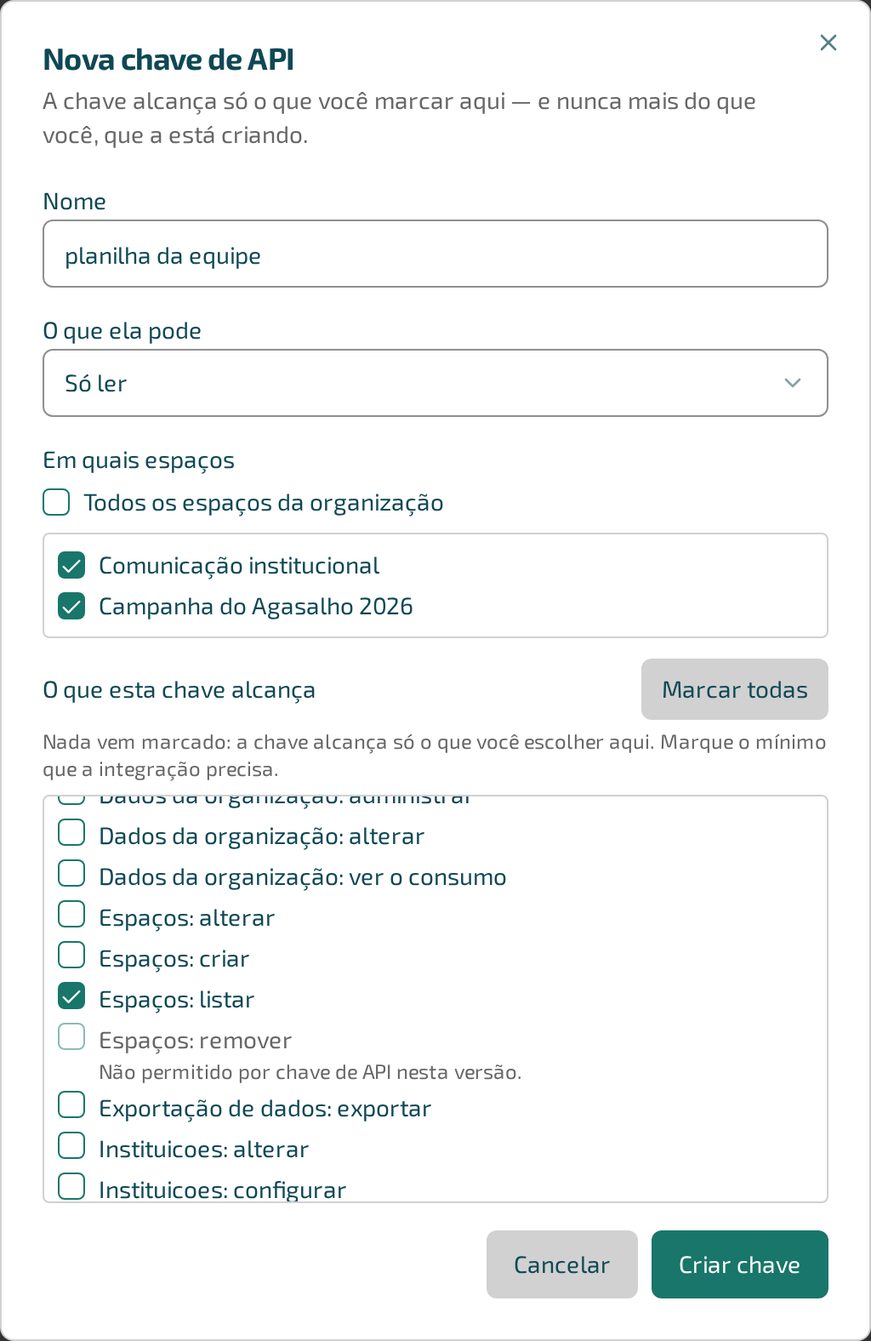
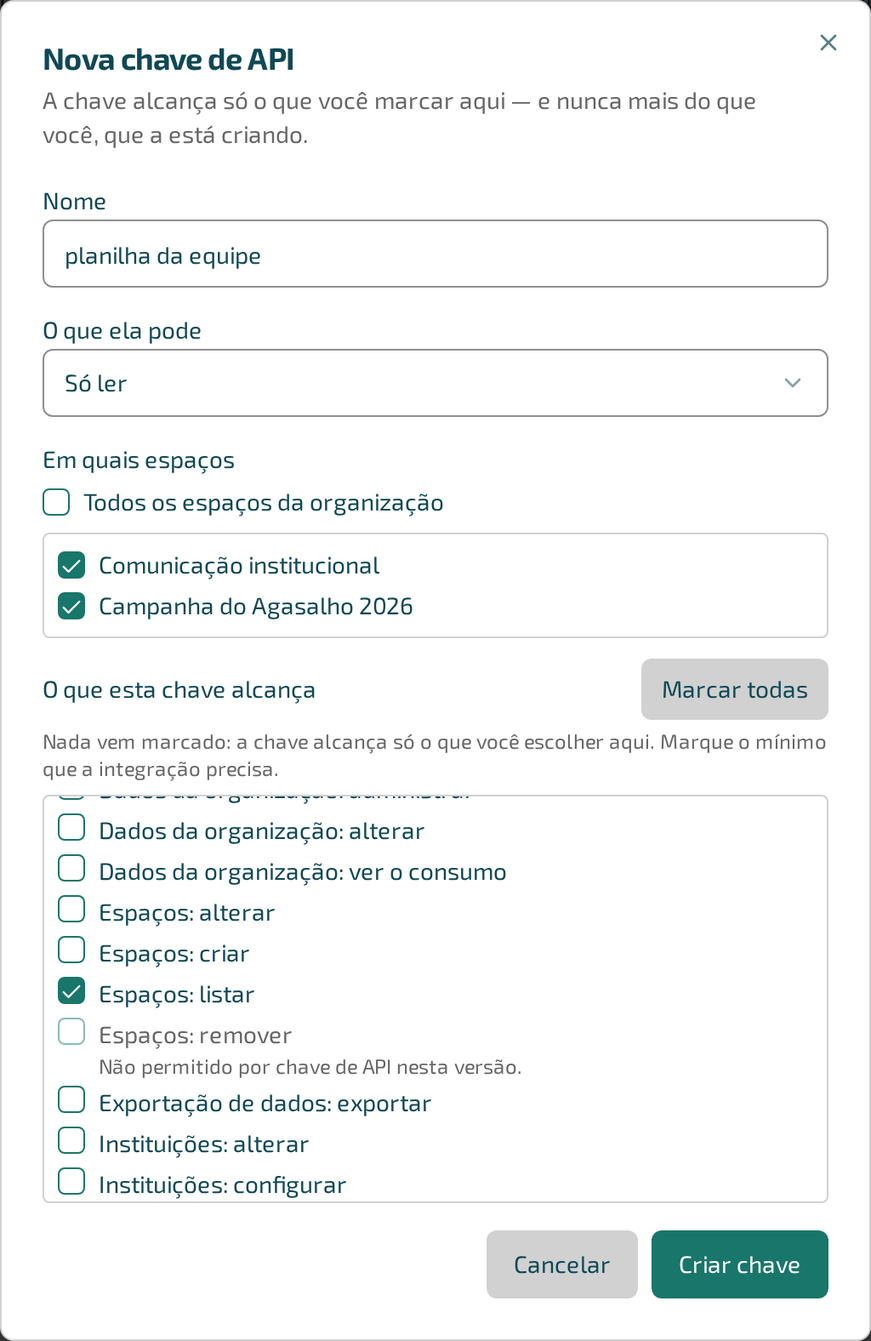
docs: retenção de convites de assinatura, e os estados novos do cenário (#297, #303, #306)

Changed region(s): [[0.0625, 0.5907, 0.5938, 0.9016]]

diff --git a/admin-servico/retencao-convites.md b/admin-servico/retencao-convites.md
@@ -1,0 +1,161 @@
+---
+title: "Retenção de convites de assinatura"
+nav_order: 17
+parent: "Administração do serviço"
+permalink: /admin-servico/retencao-convites/
+palavras_chave: "retenção, convite de assinatura, convite nunca atendido, e-mail removido, assinante externo, dado pessoal, LGPD, rotina de retenção, processo de fundo, documento assinado, convite encerrado"
+---
+
+# Retenção de convites de assinatura
+
+Tela da **Administração do serviço** que define **por quanto tempo o Flow guarda o e-mail de quem foi
+chamado a assinar um documento e não assinou** — e mostra se a rotina que remove esse e-mail está de
+fato rodando. Para chegar: escudo no cabeçalho, depois **"Manutenção"** e o botão **"Retenção de
+convites de assinatura"**, ao lado de "Retenção de candidaturas".
+
+![Tela Manutenção da administração do serviço, com os botões "Retenção de candidaturas", "Retenção de convites de assinatura" e "Apagamento de organização encerrada" no cartão "Mais manutenção"](/assets/capturas/admin-servico-manutencao-desktop.png)
+{: .mt-4 }
+
+No celular:
+
+![Tela Manutenção no celular, com o botão "Retenção de convites de assinatura" entre os botões de manutenção](/assets/capturas/admin-servico-manutencao-celular.png){: style="max-width:375px" }
+{: .mt-4 }
+
+## Por que isto importa
+
+Quando a organização envia um documento para assinatura, cada parte recebe um **convite** com um link
+próprio. Quem recebe, muitas vezes, **não tem conta e não tem nenhuma relação com a organização**: é
+um fornecedor, um voluntário em potencial, o representante de outra entidade. Se essa pessoa nunca
+assina, o e-mail dela ficaria guardado **para sempre** — e ela não tem como pedir que saia, porque não
+sabe nem onde pedir.
+
+O prazo é o que faz esse e-mail sair **sozinho**. Passados **90 dias** da criação do convite (o padrão),
+o convite que ninguém atendeu perde o e-mail e o link. O link de assinatura vale 30 dias; 90 dão ao
+convite **duas validades inteiras** para a organização cobrar a parte e reenviar. Quem não assinou em
+três meses dificilmente vai assinar por aquele convite.
+
+## O que acontece com cada convite
+
+| Situação | O que o sistema faz |
+|---|---|
+| **Convite nunca atendido, com mais de 90 dias** (prazo padrão), de um documento **sem nenhuma assinatura** | Remove o **e-mail**, o **link** e as **mensagens de erro de envio** (que costumam citar o endereço). Fica um registro mínimo: que houve convite, para qual parte e quando. |
+| **Documento com pelo menos uma assinatura** | **Nunca é tocado.** Nenhum convite dele — nem o de quem assinou, nem o das outras partes. |
+| **Convite com link recém-enviado e ainda dentro da validade** | Fica de fora: não se corta um link que acabou de ser entregue e ainda funciona. |
+
+{: .important }
+**Documento assinado nunca é alcançado.** O acordo assinado é documento jurídico e permanece inteiro.
+Basta **um** aceite para proteger **todos** os convites daquele documento: o de quem assinou e os das
+outras partes, mesmo que alguma delas nunca tenha respondido. O prazo só alcança o documento em que
+**ninguém** assinou.
+
+{: .warning }
+**Depois que o convite é esvaziado, aquela pessoa não assina mais por ele.** Para convidá-la de novo é
+preciso **emitir um documento novo** — não existe "reativar" o convite. Na ficha do documento, a parte
+aparece como convite encerrado e o botão **"Reenviar o link"** deixa de aparecer para ela (veja
+[Assinatura de documentos](/flow/assinatura-de-documentos/#convite-encerrado)).
+O documento em si não é alterado.
+
+**Esvaziado, não apagado.** A linha do convite continua existindo porque é por ela que o link público
+resolve, que a cópia selada chega às partes e que a lista de partes de um documento é montada. Apagá-la
+faria a parte sumir da conferência pública, que mostraria menos partes do que o documento tem.
+
+## Ajustar o prazo
+
+Cartão **"Prazo"**. Enquanto ninguém mexeu, a tela diz: **"Ninguém alterou ainda: vale o padrão do
+produto (90 dias)."** Depois que alguém salva, ela passa a dizer **"Alterado pela última vez em [data
+e hora]."**
+
+![Tela "Retenção de convites de assinatura" com o prazo "Convite de assinatura nunca atendido — prazo em dias" em 90, a explicação do efeito, o botão "Salvar prazo" e o cartão "O que a rotina esvaziou" com "Nada a esvaziar"](/assets/capturas/admin-servico-retencao-convites-desktop.png)
+{: .mt-4 }
+
+![Tela "Retenção de convites de assinatura" no celular, com o prazo em 90 dias e a explicação do efeito](/assets/capturas/admin-servico-retencao-convites-celular.png){: style="max-width:375px" }
+{: .mt-4 }
+
+1. Abra **Manutenção** e clique em **"Retenção de convites de assinatura"**.
+2. Altere o campo **"Convite de assinatura nunca atendido — prazo em dias"**. Aceita de **1 a 3650**
+   dias; o padrão é **90**. Abaixo do campo, a tela explica o efeito do número e lembra o **"Padrão do
+   produto"**.
+3. Clique em **"Salvar prazo"** (o botão muda para **"Salvando…"**). Aparece **"Prazo salvo. A próxima
+   passagem da rotina já usa este número."**
+
+{: .note }
+**O número vale para o serviço inteiro**, para todas as organizações — não há prazo por organização.
+Quem administra uma organização não vê esta tela.
+
+### Exemplo
+
+A administradora do serviço mantém os **90** dias. A Associação Mãos Amigas envia, em 3 de março, um
+termo para três pessoas: duas assinam em março e a terceira nunca responde. Como o documento **tem
+assinaturas**, nenhum dos três convites é tocado — nem o da pessoa que não respondeu. Já um orçamento
+enviado em 3 de março a um fornecedor que **ninguém** assinou tem o e-mail removido em 1º de junho, e,
+se o fornecedor resolver assinar em julho, a organização precisa emitir o orçamento de novo.
+
+### Dicas e armadilhas
+
+- **Alongar o prazo é o lado seguro; encurtar não tem volta.** Quando a rotina esvazia o convite, o
+  e-mail **não se recupera**. Antes de reduzir o número, pense em quanto a organização costuma levar para
+  cobrar uma parte — reduzir para 30 dias, o mesmo da validade do link, tira da organização a chance de
+  reenviar.
+- **Não escolha um prazo menor que a validade do link (30 dias).** Seria esvaziar o convite quando o
+  link ainda está bom.
+- **Os 90 dias são uma hipótese de trabalho.** A revisão jurídica pode pedir outro número; quando isso
+  acontecer, é só mudar aqui.
+- **Esta tela não resolve tudo.** Documento que **nunca foi assinado** continua guardando o texto e os
+  dados do assinante externo (CPF e e-mail da lista de partes) sem prazo. Apagar isso é apagar o
+  documento, e é uma decisão separada, ainda aberta.
+
+## "O que a rotina esvaziou": ler o estado da rotina
+
+Quem remove o e-mail é uma **rotina automática de fundo** do Flow, que passa de hora em hora e grava
+**uma linha por passagem, inclusive quando não havia nada a fazer**. O cartão **"O que a rotina
+esvaziou"** mostra o resultado — com **quatro estados que não se confundem**, os mesmos de
+[Retenção de candidaturas](/admin-servico/retencao-candidaturas/#o-que-a-rotina-apagou-ler-o-estado-da-rotina).
+
+| O que a tela diz | O que significa | O que fazer |
+|---|---|---|
+| **"A rotina de retenção de convites nunca rodou nesta instalação — nenhum ciclo foi registrado."** (aviso em vermelho) | Nenhuma passagem foi registrada. **Não é o mesmo que "não havia nada a esvaziar":** enquanto ela não roda, nenhum e-mail sai no prazo. | Confira se o processo de fundo do Flow está no ar. Passada mais de uma hora no ar sem nenhum ciclo, este aviso é o sinal de que ele não subiu. |
+| **"A rotina rodou em [data e hora] e não havia nada a esvaziar."** (etiqueta **"Nada a esvaziar"**) | Rodou, olhou e nenhum convite tinha vencido. É o estado saudável. | Nada. |
+| **"A última passagem começou em [data e hora] e não terminou."** (etiqueta **"Começou e não terminou"**) | A rotina começou e **não chegou ao fim**. Também não é "nada a esvaziar". | Confira se o processo de fundo do Flow continua no ar. |
+| **"A última passagem, em [data e hora], falhou: [erro]"** (etiqueta **"Falhou"**) | A rotina tentou e deu erro; a mensagem diz qual. | Resolva a causa descrita; a próxima passagem tenta de novo. |
+
+Quando houve trabalho, a tela resume: **"N convite(s) com o e-mail removido, N organização(ões)
+alcançada(s)."** e, embaixo, de onde vieram as partes: **"pessoa cadastrada"**, **"instituição
+cadastrada"** e **"pessoa de fora"**. Ciclo com efeito não leva etiqueta.
+
+{: .warning }
+**"Nada a esvaziar" e "nunca rodou" parecem iguais e significam o oposto.** Se a rotina não roda, o
+prazo que você configurou **não vale de nada**: os e-mails continuam guardados e a tela de prazo
+continua mostrando 90 dias como se fosse tudo cumprido. Depois de ajustar o prazo, confira o cartão de
+baixo.
+
+{: .note }
+**Organização que desligou o Flow é pulada**, e o prazo dela fica adiado até ela religar. A **exclusão
+de organização**, por sua vez, continua apagando tudo, inclusive os convites.
+
+## Quando dá errado
+
+- **"Não foi possível consultar a retenção de convites."** — a tela não conseguiu nem perguntar o
+  prazo e o que a rotina fez. Recarregue; se continuar, o serviço pode estar fora do ar. Isso **não**
+  significa que o prazo foi perdido.
+- **"Não foi possível salvar o prazo."** — nada foi alterado; o prazo anterior continua valendo. Tente
+  de novo.
+- **Uma recusa com a mensagem do servidor** (por exemplo, número fora de 1 a 3650) — a tela mostra a
+  mensagem que o servidor devolveu. Corrija o número.
+- **O aviso vermelho de "nunca rodou" ou "não terminou" não sai.** O processo de fundo do Flow precisa
+  estar no ar; ele não se liga por esta tela. Peça a quem cuida do servidor para conferir. A tela
+  [Tarefas agendadas](/admin-servico/tarefas/) mostra o estado das rotinas da instalação.
+
+## Limites do papel
+
+Só quem **administra o serviço** vê e altera este prazo. A administração de uma organização não o
+alcança e nenhuma organização pode escolher um prazo diferente. Quem tentar abrir a tela sem a
+permissão vê a recusa de sempre da área: **"Você não administra o serviço."**
+
+## Glossário
+
+- **Convite de assinatura** — o e-mail com o link que leva uma parte a aceitar um documento.
+- **Nunca atendido** — convite de um documento em que **nenhuma** parte assinou.
+- **Esvaziar** — remover do convite o e-mail, o link e as mensagens de erro de envio, mantendo só o
+  registro mínimo. Não é apagar a linha.
+- **Registro mínimo** — o que sobra: que houve convite, para qual parte e quando.
+- **Rotina de fundo** — o processo do Flow que roda sozinho, sem ninguém clicar, e faz a remoção.

diff --git a/flow/assinatura-de-documentos.md b/flow/assinatura-de-documentos.md
@@ -121,10 +121,38 @@ Embaixo, **cada parte** aparece com a situação dela:
 | **"link enviado, aguardando o aceite"** | O e-mail saiu (com o dia e o endereço de destino) e a pessoa ainda não aceitou. |
 | **"aceitou em 13/10/2026 …"** | A parte aceitou, com dia e hora. |
 | **"Cópia entregue em …"** | Depois do selo: a cópia do documento chegou a essa parte. |
+| **"Convite encerrado: o e-mail desta parte foi removido ao fim do prazo de retenção…"** | O convite nunca foi atendido e o prazo de retenção passou: o e-mail e o link foram removidos, e a parte **não pode mais assinar por este processo**. Veja [Convite encerrado pelo prazo de retenção](#convite-encerrado). |
 
 Se uma parte demora, o botão **"Reenviar o link"** manda um novo e-mail — e **o link anterior deixa de
 valer**. Use quando o e-mail se perdeu ou o link expirou: a página do link vencido avisa que ele já não
 aceita o documento e que é preciso pedir a quem enviou que mande de novo.
+
+### Convite encerrado pelo prazo de retenção
+{: #convite-encerrado }
+
+Por que isto importa: quem foi chamado a assinar e nunca assinou, muitas vezes, não tem conta nem
+relação com a organização — e o e-mail dela não pode ficar guardado para sempre. Por isso, **90 dias
+depois de criado** (prazo padrão, definido por quem administra o serviço), o convite que ninguém atendeu
+**perde o e-mail e o link**.
+
+Na linha da parte, a tela passa a dizer: **"Convite encerrado: o e-mail desta parte foi removido ao
+fim do prazo de retenção e ela não pode mais assinar por este processo. Para convidá-la de novo, emita
+um documento novo."** As frases "enviado em … para <e-mail>" e "será enviado para <e-mail>" deixam de
+aparecer para essa parte, e o botão **"Reenviar o link"** também **não aparece**.
+
+- **O que fazer:** se ainda precisa da assinatura dessa pessoa, **emita um documento novo** e envie para
+  assinatura de novo. Não existe reativar o convite.
+- **O que não acontece:** documento com **pelo menos uma assinatura nunca é alcançado** — nenhum convite
+  dele é encerrado, nem o de quem assinou nem o das outras partes. O acordo assinado permanece inteiro, e
+  o documento em si não é alterado.
+- **Se o link foi reenviado há pouco**, e ainda está dentro da validade de 30 dias, o convite fica de
+  fora até o link vencer.
+
+{: .warning }
+**Cobre a parte antes dos 90 dias.** O link vale 30; use **"Reenviar o link"** enquanto o convite
+existe. Passado o prazo de retenção, a única saída é um documento novo. O prazo e o estado da rotina
+que esvazia os convites estão em
+[Retenção de convites de assinatura](/admin-servico/retencao-convites/).
 
 ### Falha nunca aparece como entrega
 
@@ -239,6 +267,9 @@ uma testemunha, **Carlos Nunes**, que também trabalha no Instituto Semente.
 - **Se a parte tem conta, ela não depende só do e-mail.** O documento aparece no "Para mim" dela. Se
   alguém diz que não recebeu, peça que abra "Para mim" antes de reenviar o link — reenviar invalida o
   anterior. Para quem não tem conta, reenviar é o único caminho.
+- **Convite parado por muito tempo se perde.** Depois de 90 dias sem assinatura, o e-mail da parte é
+  removido e ela não assina mais por aquele convite (veja [acima](#convite-encerrado)). Se o documento
+  ainda importa, cobre antes ou emita outro.
 - **"Reenviar o link" invalida o anterior.** Se a pessoa já abriu o e-mail antigo, ela precisa usar o
   novo.
 - **Não mande o PDF selado como se fosse assinado digitalmente.** Quem o receber pode presumir
@@ -266,6 +297,9 @@ uma testemunha, **Carlos Nunes**, que também trabalha no Instituto Semente.
   de e-mail errado, corrija o cadastro e avise pelo [feedback](/enviar-feedback/).
 - **"O e-mail ainda não saiu: <motivo>. A plataforma tenta de novo."** — o convite não saiu. Se o motivo
   indicar o endereço, verifique-o.
+- **"Convite encerrado: o e-mail desta parte foi removido ao fim do prazo de retenção…"** — o prazo
+  de retenção passou e a parte não pode mais assinar por este processo. Emita um documento novo; não há
+  botão de reenviar para ela. Veja [Convite encerrado pelo prazo de retenção](#convite-encerrado).
 - **Na página do link — "Este link expirou e já não aceita o documento."** — peça a quem enviou que mande
   o link de novo ("Reenviar o link").
 - **"Não há documento selado com este código."** (na conferência) — confira se digitou o código inteiro.

diff --git a/flow/candidaturas.md b/flow/candidaturas.md
@@ -54,6 +54,11 @@ as aprovadas, as reprovadas **e as expiradas** — por isso o nome mudou: a expi
 foi decisão de ninguém. Quando o conteúdo de uma candidatura já foi removido pelo prazo de
 retenção, a linha termina com **" — conteúdo removido pelo prazo de retenção"**.
 
+![Aba "Já resolvidas" da lista de candidaturas, com "Nelson Leite" marcado "Aprovada — disparo falhou" e "Inês Prado" marcada "Expirada sem decisão"](/assets/capturas/flow-candidaturas-resolvidas-desktop.png)
+{: .mt-4 }
+
+![Aba "Já resolvidas" no celular, com as etiquetas "Aprovada — disparo falhou" e "Expirada sem decisão"](/assets/capturas/flow-candidaturas-resolvidas-celular.png){: style="max-width:375px" }
+
 {: .note }
 Esta lista **não tem ação em lote, de propósito.** Aprovar e reprovar levam mensagem à pessoa,
 motivo e escolhas próprias de cada candidatura; decidir "todas de uma vez" esconderia exatamente o
@@ -247,6 +252,15 @@ Ela **não se decide depois disso**: a tela de decidir recusa com *"Esta candida
 [data] — passou o prazo sem que ninguém decidisse, e ela não se decide depois disso."* Se a pessoa
 ainda interessa, o caminho é cadastrá-la diretamente em [Pessoas](/pessoas/).
 
+![Candidatura de Inês Prado aberta, com a etiqueta "Expirada sem decisão" no alto e o quadro "Desfecho" com "Expirada pelo prazo: ninguém decidiu, e isto não é uma reprovação" e "Expirou em"](/assets/capturas/flow-candidaturas-expirada-desktop.png)
+{: .mt-4 }
+
+![Candidatura expirada no celular, com a etiqueta "Expirada sem decisão" e o quadro "Desfecho"](/assets/capturas/flow-candidaturas-expirada-celular.png){: style="max-width:375px" }
+
+{: .note }
+Repare que, enquanto o prazo de remoção não chega, o que a pessoa enviou **continua visível** na
+candidatura expirada — expirar não apaga nada por si só.
+
 ### Quando o conteúdo já foi removido
 
 Passado o prazo, a candidatura continua na lista, mas a tela avisa: *"O conteúdo desta candidatura
@@ -260,9 +274,10 @@ parecer, uma justificativa para uma decisão), isso precisa estar no **motivo da
 **observação interna**, que a pessoa que decide escreve — o conteúdo enviado por quem se candidata
 não será mais lido depois do prazo.
 
-<!-- CAPTURA PENDENTE: candidatura expirada e candidatura com conteúdo removido (tela de detalhe e
-     etiqueta "Expirada sem decisão" na lista) — o ambiente ainda não tem dado nesse estado (issue
-     #291). Refazer quando houver. -->
+<!-- CAPTURA PENDENTE: candidatura com conteúdo removido pelo prazo de retenção (tela de detalhe com o
+     aviso "O conteúdo desta candidatura foi removido…"). O cenário local ainda não produz esse estado: a
+     candidatura expirada do cenário só chega ao prazo de remoção 90 dias depois. A expirada em si já foi
+     capturada (0.63.0, #303). -->
 
 ## Quem tem menos de 18 anos
 
@@ -299,6 +314,11 @@ plataforma; o que a plataforma garante é que a decisão foi entregue, e é por 
   quem precisa."* — com o motivo. Resolva o problema do outro lado (a automação estava fora do ar,
   por exemplo) e clique em **"Repetir a entrega"**. A Visão geral do Flow também conta as decisões
   nesse estado.
+
+![Candidatura de Nelson Leite aprovada, no quadro "Decisão" o aviso "A entrega ao n8n falhou depois de várias tentativas, e a decisão ainda não chegou a quem precisa" com o motivo e o botão "Repetir a entrega"](/assets/capturas/flow-candidaturas-disparo-falhou-desktop.png)
+{: .mt-4 }
+
+![No celular, o mesmo aviso de falha de entrega e o botão "Repetir a entrega" no fim do quadro "Decisão"](/assets/capturas/flow-candidaturas-disparo-falhou-celular.png){: style="max-width:375px" }
 
 {: .warning }
 **"Aprovada" na lista não quer dizer que a pessoa já foi avisada.** Quer dizer que a organização

diff --git a/novidades.md b/novidades.md
@@ -17,6 +17,34 @@ produtos da casa: o registro do que mudou de uma versão para a outra.
 
 ---
 
+## 14 de outubro de 2026 — versão 0.63.0
+
+O convite de assinatura que **ninguém atendeu** deixa de guardar o e-mail para sempre, e a lista de
+permissões da chave de API passa a ter todos os nomes em português.
+
+### Adicionado
+
+- **Retenção de convites de assinatura**, nova página na administração do serviço (**Manutenção →
+  "Retenção de convites de assinatura"**). Quem foi chamado a assinar e não assinou perde o e-mail e o
+  link **90 dias depois** de criado o convite (o prazo se ajusta, de 1 a 3650 dias). A página também
+  mostra se a rotina que faz isso está rodando, com os mesmos quatro estados da retenção de
+  candidaturas: **nunca rodou**, **começou e não terminou**, **falhou** e **nada a esvaziar**. Veja
+  [Retenção de convites de assinatura](/admin-servico/retencao-convites/).
+- **Documento assinado nunca é alcançado.** Basta uma assinatura para proteger todos os convites do
+  documento — o de quem assinou e o das outras partes.
+- **Na ficha do documento**, a parte cujo convite foi encerrado mostra **"Convite encerrado: …"** e
+  deixa de ter o botão **"Reenviar o link"**. Para convidá-la de novo, emita um documento novo. Veja
+  [Convite encerrado pelo prazo de retenção](/flow/assinatura-de-documentos/#convite-encerrado).
+
+### Corrigido
+
+- **Na janela "Nova chave de API"**, o grupo que aparecia como **"Instituicoes"** (sem acento) agora é
+  **"Instituições"**, e os demais recursos e ações que apareciam sem nome em português — como
+  **"Espaço"**, **"Frentes"**, **"Candidaturas"** e **"Documentos"**, e as ações **"configurar"**,
+  **"decidir"**, **"emitir"**, **"encerrar"**, **"receber"** e **"executar"** — ganharam rótulo próprio.
+
+---
+
 ## 13 de outubro de 2026 — versão 0.62.0
 
 O **CNPJ** e o **endereço** da organização mudam de lugar: saem do Flow e passam para a ficha da

diff --git a/flow/emitir-documentos.md b/flow/emitir-documentos.md
@@ -59,7 +59,16 @@ com o nome de quando foi emitido. Quem remove uma ficha não perde, portanto, o 
 Cada documento aparece com o título e os mesmos distintivos da lista da ficha — **"Emitido aqui"**,
 **"Anexado — assinado fora do sistema"**, **"Termo de adesão"**, **"Vigente"**, **"Vencido"**,
 **"Encerrado"**, **"Ainda não vale — faltam aceites"** — mais um, de que só esta tela precisa:
-**"Ficha removida"**. Embaixo, as linhas:
+**"Ficha removida"**. A captura abaixo reúne as situações lado a lado: o anexado **"Vencido"**
+(a certidão negativa, que "valeu até" uma data já passada), o **"Encerrado"** e o termo que **"Ainda não
+vale — faltam aceites"**.
+
+![Aba Documentos com vários documentos: uma certidão negativa anexada marcada Vencido, um termo de adesão marcado Ainda não vale — faltam aceites e outro marcado Encerrado](/assets/capturas/flow-documentos-lista-situacoes-desktop.png)
+{: .mt-4 }
+
+![A mesma lista no celular, com os distintivos Vencido, Encerrado e Ainda não vale](/assets/capturas/flow-documentos-lista-situacoes-celular.png){: style="max-width:375px" }
+
+Embaixo, as linhas:
 
 - **"Pessoa: <nome>"** (ou **"Instituição: <nome>"**) — quando a ficha existe, o nome é **link** para
   ela; quando foi removida, é só o nome de quando o documento foi emitido, ao lado da marca **"Ficha

diff --git a/glossario.md b/glossario.md
@@ -398,6 +398,14 @@ Depois da remoção sobra, no máximo, um **registro mínimo** (tipo, frente, da
 decidiu) — e, no caso de recusa por idade, nada. Ver
 [Retenção de candidaturas](/admin-servico/retencao-candidaturas/).
 
+## Retenção (de convites de assinatura)
+
+Por quanto tempo o Flow guarda o e-mail de quem foi chamado a assinar um documento e **não assinou**
+(90 dias, por padrão, contados da criação do convite). Passado o prazo, o convite é **esvaziado**: sai o
+e-mail e sai o link, e a parte não assina mais por ele — é preciso emitir um documento novo. Documento
+com qualquer assinatura nunca é alcançado. Ver
+[Retenção de convites de assinatura](/admin-servico/retencao-convites/).
+
 ## Encerrar o contrato (organização)
 
 Ato de quem administra o serviço que marca o fim da relação com uma organização e inicia a contagem de 30 dias até o apagamento de todos os dados dela. Não é o mesmo que suspender (que só interrompe o uso). Reabrir o contrato antes de o apagamento começar cancela o apagamento. Ver

diff --git a/configuracoes/integracoes.md b/configuracoes/integracoes.md
@@ -63,6 +63,9 @@ vazamento fica do tamanho da integração.
    título, **"Marcar todas"** e **"Desmarcar todas"** marcam ou limpam a lista de uma vez. A
    explicação na tela é: "Nada vem marcado: a chave alcança só o que você escolher aqui. Marque o
    mínimo que a integração precisa."
+   Os nomes aparecem em português, com acento — por exemplo *"Instituições: ver"*, *"Candidaturas:
+   decidir"* ou *"Documentos: emitir"*. Se algum item aparecer em forma crua (sem acento, com cara de
+   código), avise pelo [feedback](/enviar-feedback/): é um nome que ficou sem rótulo.
 6. Clique em **"Criar chave"**.
 
 ![Janela "Nova chave de API" com "Todos os espaços da organização" desmarcado e a lista mostrando só dois espaços ativos, "Comunicação institucional" e "Campanha do Agasalho 2026", ambos marcados](/assets/capturas/integracoes-chave-nova-desktop.png)

diff --git a/admin-servico/index.md b/admin-servico/index.md
@@ -102,6 +102,9 @@ lado. Link guardado nos favoritos não quebrou.
   verdade.
 - [Retenção de candidaturas](/admin-servico/retencao-candidaturas/) — por quanto tempo o Flow
   guarda o que uma pessoa enviou ao se candidatar, e se a rotina que apaga isso está rodando.
+- [Retenção de convites de assinatura](/admin-servico/retencao-convites/) — por quanto tempo o Flow
+  guarda o e-mail de quem foi chamado a assinar um documento e não assinou (90 dias, por padrão), por
+  que documento assinado nunca é alcançado e como conferir se a rotina está rodando.
 - [Apagamento de organização encerrada](/admin-servico/apagamento-organizacao-encerrada/) — como
   encerrar e reabrir o contrato de uma organização, os dois avisos ao gestor, o prazo de 30 dias
   e como conferir se a rotina que apaga está rodando.

diff --git a/admin-servico/retencao-candidaturas.md b/admin-servico/retencao-candidaturas.md
@@ -20,6 +20,10 @@ No celular:
 ![Tela Manutenção no celular, com o botão "Retenção de candidaturas" entre os botões de manutenção](/assets/capturas/admin-servico-manutencao-celular.png){: style="max-width:375px" }
 {: .mt-4 }
 
+{: .note }
+O Flow tem uma segunda rotina parecida, para o e-mail de quem foi convidado a assinar um documento e não
+assinou: [Retenção de convites de assinatura](/admin-servico/retencao-convites/).
+
 ## Por que isto importa
 
 Quem se candidata deixa nome, data de nascimento, CPF, endereço, contatos e consentimentos. Se a
